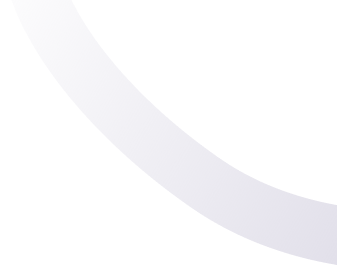
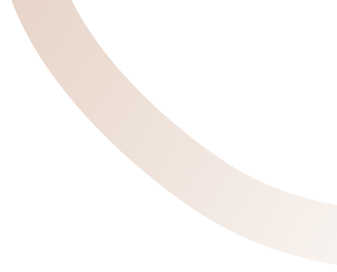
footer, main page and  main.css

Changed region(s): [[0.0297, 0.0, 0.5341, 0.6471]]

diff --git a/src/app/styles/main.css b/src/app/styles/main.css
@@ -18,7 +18,7 @@ body {
 } */
 
 .container {
-  @apply max-w-[1112px] px-[4%] xl:px-0;
+  @apply max-w-[1112px] px-[4%] lg:px-0;
 }
 
 .primary_button {
@@ -47,7 +47,7 @@ body {
 
 .heading_three_style {
   font-family: "Montserrat";
-  @apply font-semibold text-[#29214B] text-lg lg:text-[21px];
+  @apply font-semibold text-[#090617] text-lg lg:text-[21px];
 }
 
 .heading_three_style_black {
@@ -201,8 +201,8 @@ header {
 }
 
 .checkbox span:last-child {
-  padding-left: 8px;
-  line-height: 18px;
+  padding-left: 12px;
+  line-height: 18px;font-size: 16px;
 }
 
 .checkbox:hover span:first-child {
@@ -329,11 +329,11 @@ header {
 
 .home_banner h1 {
   font-family: "Montserrat";
-  @apply text-4xl lg:text-[50px] text-white leading-[46px] lg:leading-[60px] font-semibold;
+  @apply text-4xl xl:text-[50px] text-white leading-[46px] xl:leading-[60px] font-semibold;
 }
 
 .home_banner .swiper.swiper-initialized.swiper-horizontal.mySwiper {
-  @apply md:absolute left-0 top-14 lg:top-20 h-[522px];
+  @apply md:absolute left-0 top-[31px] h-[522px];
 }
 .home_banner .swiper.swiper-v.swiper-initialized.swiper-vertical.mySwiper2 {
   height: 100%;
@@ -346,8 +346,8 @@ header {
   @apply md:pl-[388px]  lg:pl-[440px];
 }
 .intro_section {
-  background: linear-gradient(0deg, #d8d5e3 0%, rgba(216, 213, 227, 0) 100%);
-  @apply pt-[28rem] md:pt-32 lg:pt-60 pb-56 lg:pb-[326px] relative overflow-hidden;
+  background: linear-gradient(0deg, rgb(216 213 227 / 40%) 0%, rgba(216, 213, 227, 0) 100%);
+  @apply pt-[28rem] md:pt-32 lg:pt-44 pb-56 lg:pb-[326px] relative overflow-hidden;
 }
 .home_banner_text
   .swiper
@@ -451,12 +451,7 @@ header {
   @apply absolute left-0 bottom-0 pl-6 pb-8 text-white text-4xl z-[2] font-semibold;
 }
 
-.upcoming_program {
-  background: linear-gradient(
-    180deg,
-    #d8d5e3 0%,
-    rgba(216, 213, 227, 0.4) 100%
-  );
+.upcoming_program {background: linear-gradient(180deg, rgb(216 213 227 / 40%) 0%, rgba(216, 213, 227, 0) 100%);
   @apply pt-24 pb-40 md:pb-60 lg:pt-40 lg:pb-[306px];
 }
 
@@ -511,14 +506,14 @@ header {
 }
 
 .news_letter_section {
-  background: linear-gradient(180deg, #d8d5e3 0%, rgba(216, 213, 227, 0) 100%);
+
   @apply md:pb-11;
 }
 .news_letter_section .container.mx-auto {
   @apply px-0;
 }
 .news_letter {
-  @apply gap-32 lg:flex justify-between  overflow-hidden bg-[#29214B] md:rounded-[20px] px-6 xl:px-24 py-20 lg:py-28 lg:mx-0 relative  top-[-110px] md:top-[-200px] -mb-[46px];
+  @apply gap-32 lg:flex justify-between  overflow-hidden bg-[#29214B] md:rounded-[20px] px-6 md:px-10 xl:px-24 py-20 lg:py-28 lg:mx-0 relative  top-[-110px] md:top-[-200px] -mb-[46px];
 }
 
 .news_ellipse_one {
@@ -545,7 +540,7 @@ header {
 
 .news_letter_form_head {
   font-family: "Montserrat";
-  @apply text-[28px] text-[#29214B] font-semibold leading-9 mb-7;
+  @apply text-[28px] text-[#0E0F1D] font-semibold leading-9 mb-7;
 }
 
 .form_field {
@@ -580,6 +575,7 @@ header {
 }
 
 .Supportive_community_section {
+  background: linear-gradient(0deg, rgb(216 213 227 / 40%) 0%, rgba(216, 213, 227, 0) 100%);
   @apply pb-40;
 }
 /* ~~~~~~~~~~~~~~~~~~~~~~~~~~ HOME_PAGE_CSS_END ~~~~~~~~~~~~~~~~~~~~~~~~~~ */
@@ -805,6 +801,12 @@ header {
     height: calc(100vh - 72px);
   }
 }
+/* @media screen and (max-width: 1288px){
+  .testimonial_section .swiper .swiper-wrapper .swiper-slide {
+    width: auto!important;
+  }
+  
+} */
 @media screen and (max-width: 1024px) {
   .banner {
     height: calc(100vh - 72px);

diff --git a/src/app/Pages/Main/Main.tsx b/src/app/Pages/Main/Main.tsx
@@ -169,10 +169,10 @@ const Main = () => {
                 </svg>
               </div>
             </div>
-            <p className="paragraph_one_style mb-2 text-[#29214B]">
+            <p className="paragraph_one_style mb-2 text-[#39315C]">
               My podcast
             </p>
-            <h2 className="heading_style_two mb-16 text-center text-[#29214B]">
+            <h2 className="heading_style_two mb-16 text-center text-[#090617]">
               Stories of Transformations
             </h2>
             <ul className="home_story_tab">
@@ -195,7 +195,7 @@ const Main = () => {
       <section className="upcoming_program">
         <div className="container mx-auto ">
           <div className="lg:grid grid-cols-2 pb-8 lg:pb-20 xxl:px-20">
-            <h2 className="heading_style_two mb-8 lg:mb-0 text-[#29214B] lg:max-w-[398px] text-start  lg:text-left">
+            <h2 className="heading_style_two mb-8 lg:mb-0 text-[#090617] lg:max-w-[398px] text-start  lg:text-left">
               Join me in an upcoming program
             </h2>
             <div className="flex justify-start lg:justify-end text-start">
@@ -936,13 +936,13 @@ const Main = () => {
             </div>
           </div>
         </div>
-        <div className="absolute left-0 top-[30%] w-full -z-50 hidden lg:block">
+        <div className="absolute left-0 top-[26%] w-full -z-50 hidden lg:block">
           <Image className="w-full" src={supportive_banner} alt=".." />
         </div>
       </section>
 
       <section className="testimonial_section">
-        <h2 className="heading_style_two text-center text-[#29214B] mb-20">
+        <h2 className="heading_style_two text-center text-[#29214B] mb-20 mt-28">
           What people say
         </h2>
         <TestimonialCarousel />

diff --git a/src/app/components/footer/Footer.tsx b/src/app/components/footer/Footer.tsx
@@ -172,7 +172,7 @@ const Footer = () => {
                 © 2023 All rights reserved Mayuri Sharma
               </p>
             </div>
-            <div className="bg-white rounded-[20px] p-8 col-span-2 z-[2]">
+            <div className="bg-white rounded-[20px] p-8 col-span-2 ">
               <div className="flex items-center">
                 <svg
                   width="30"
